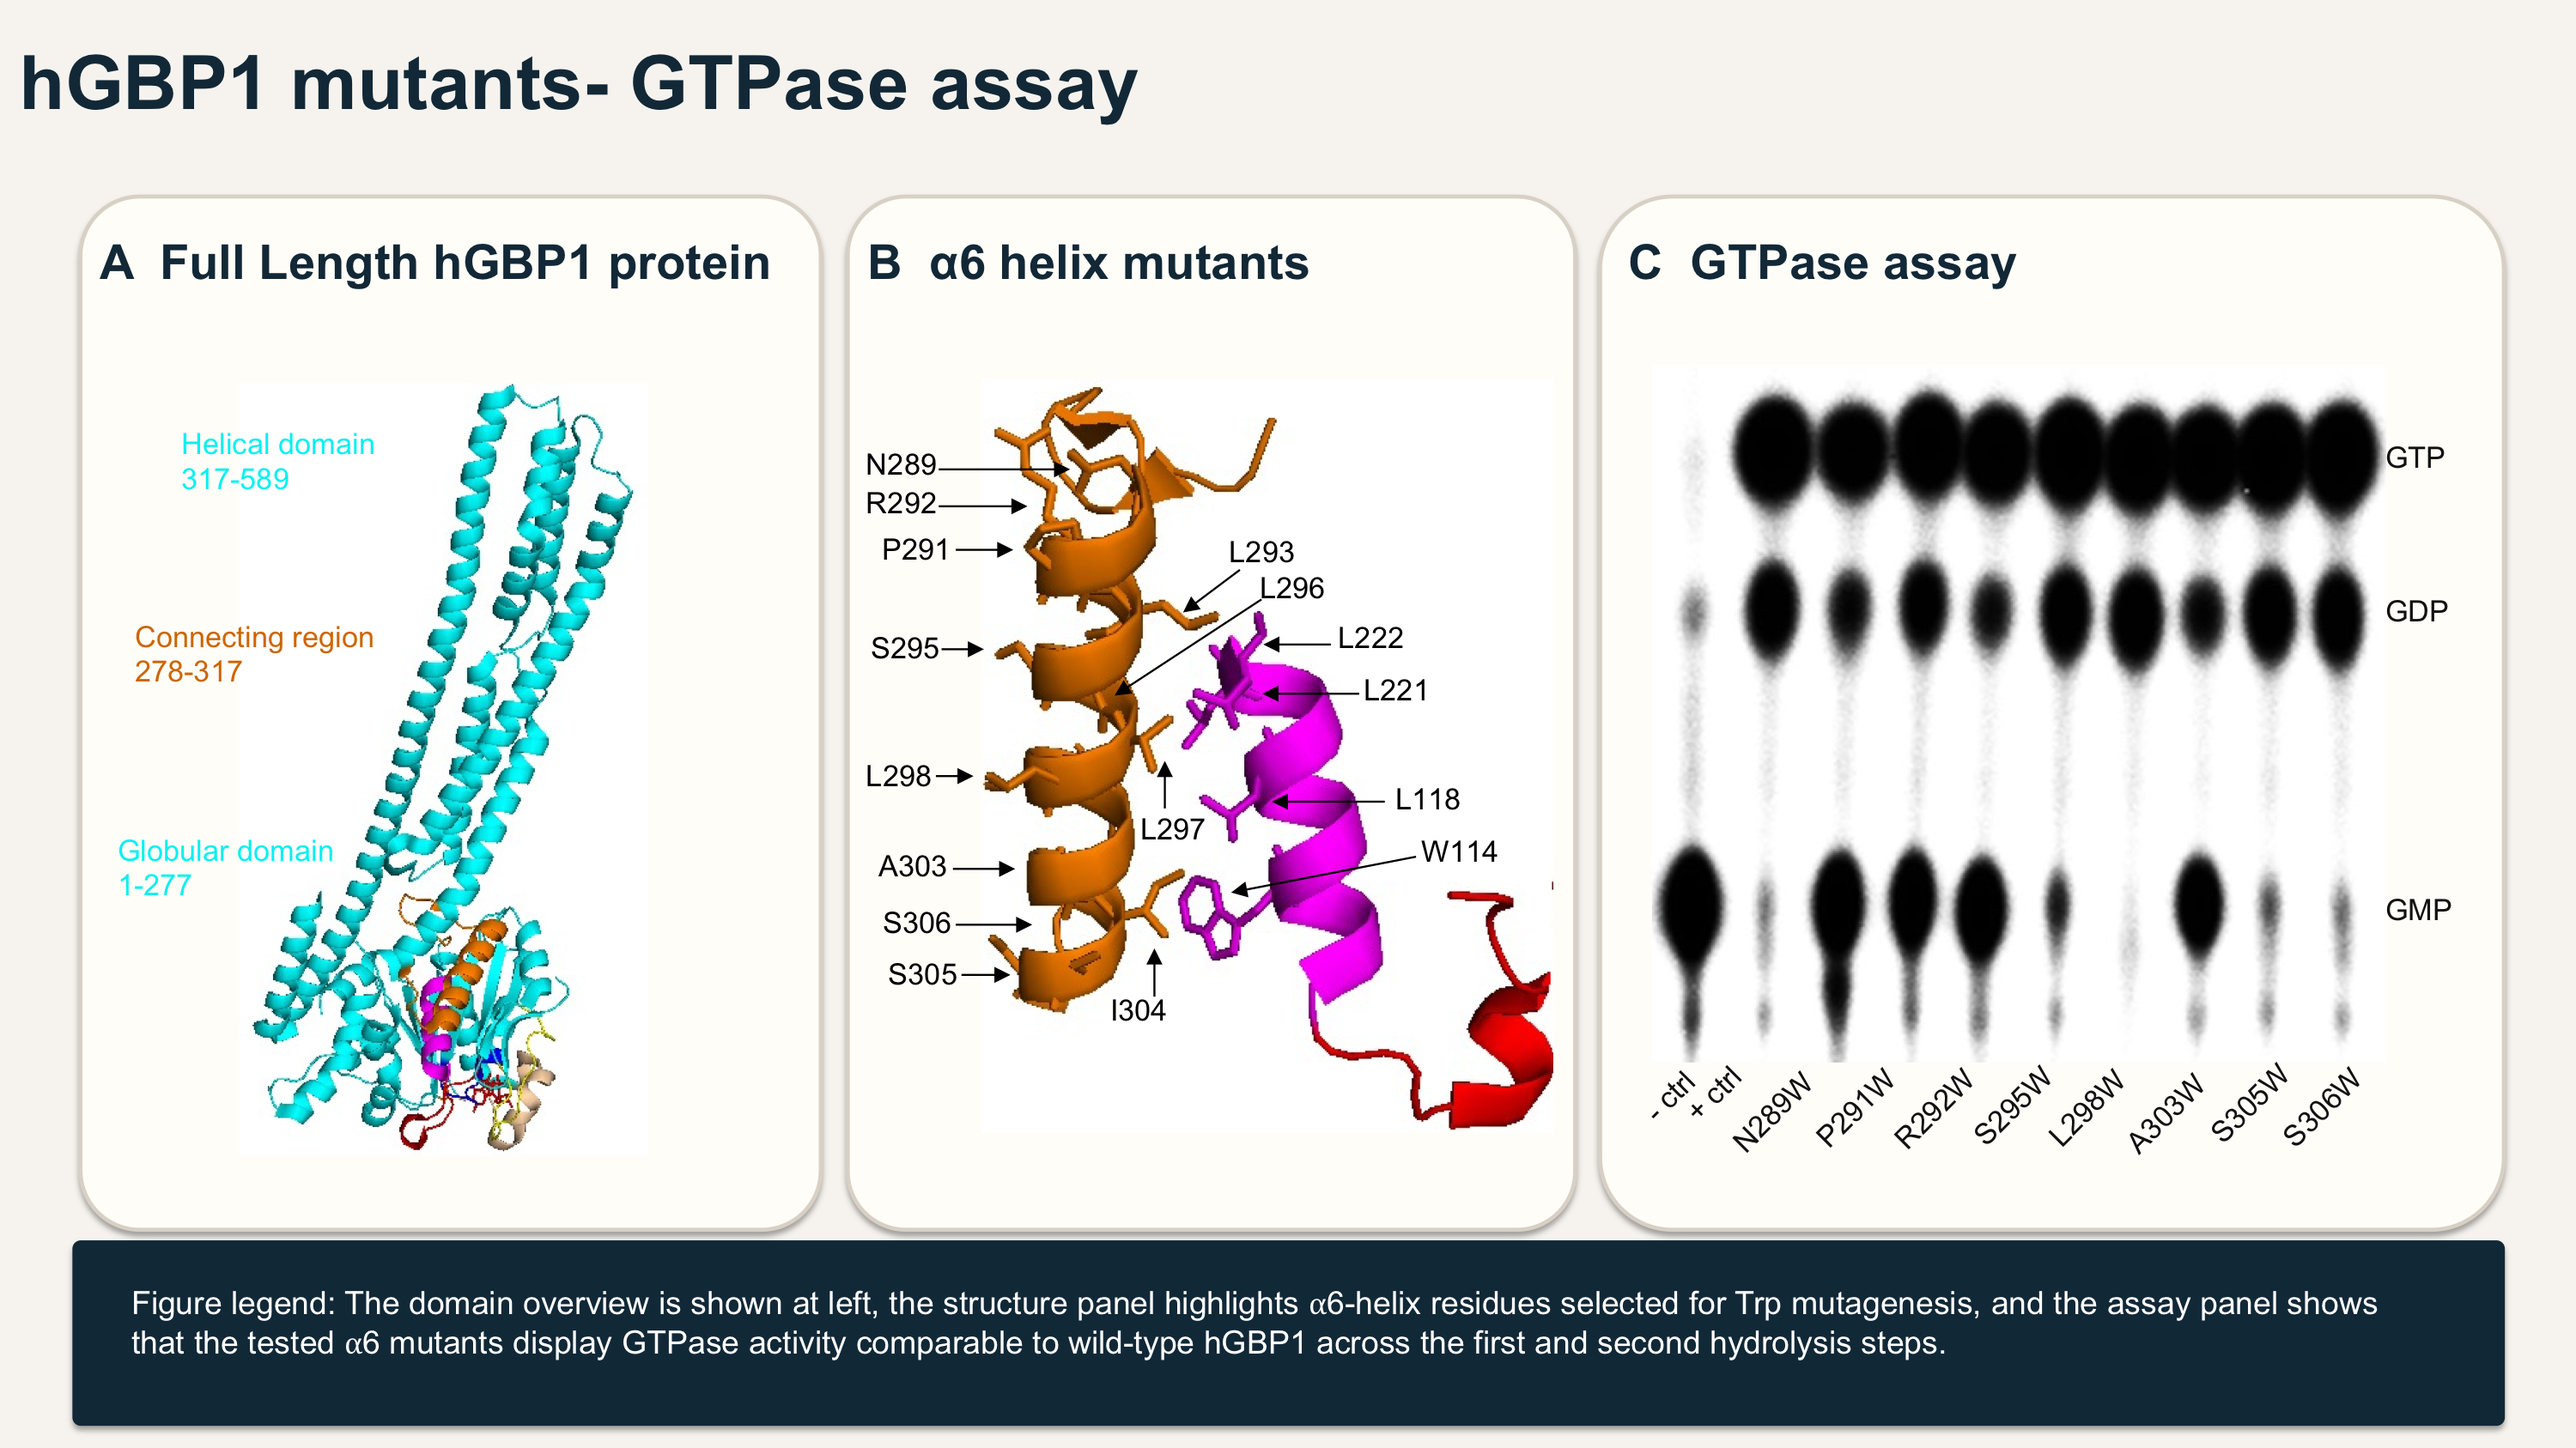
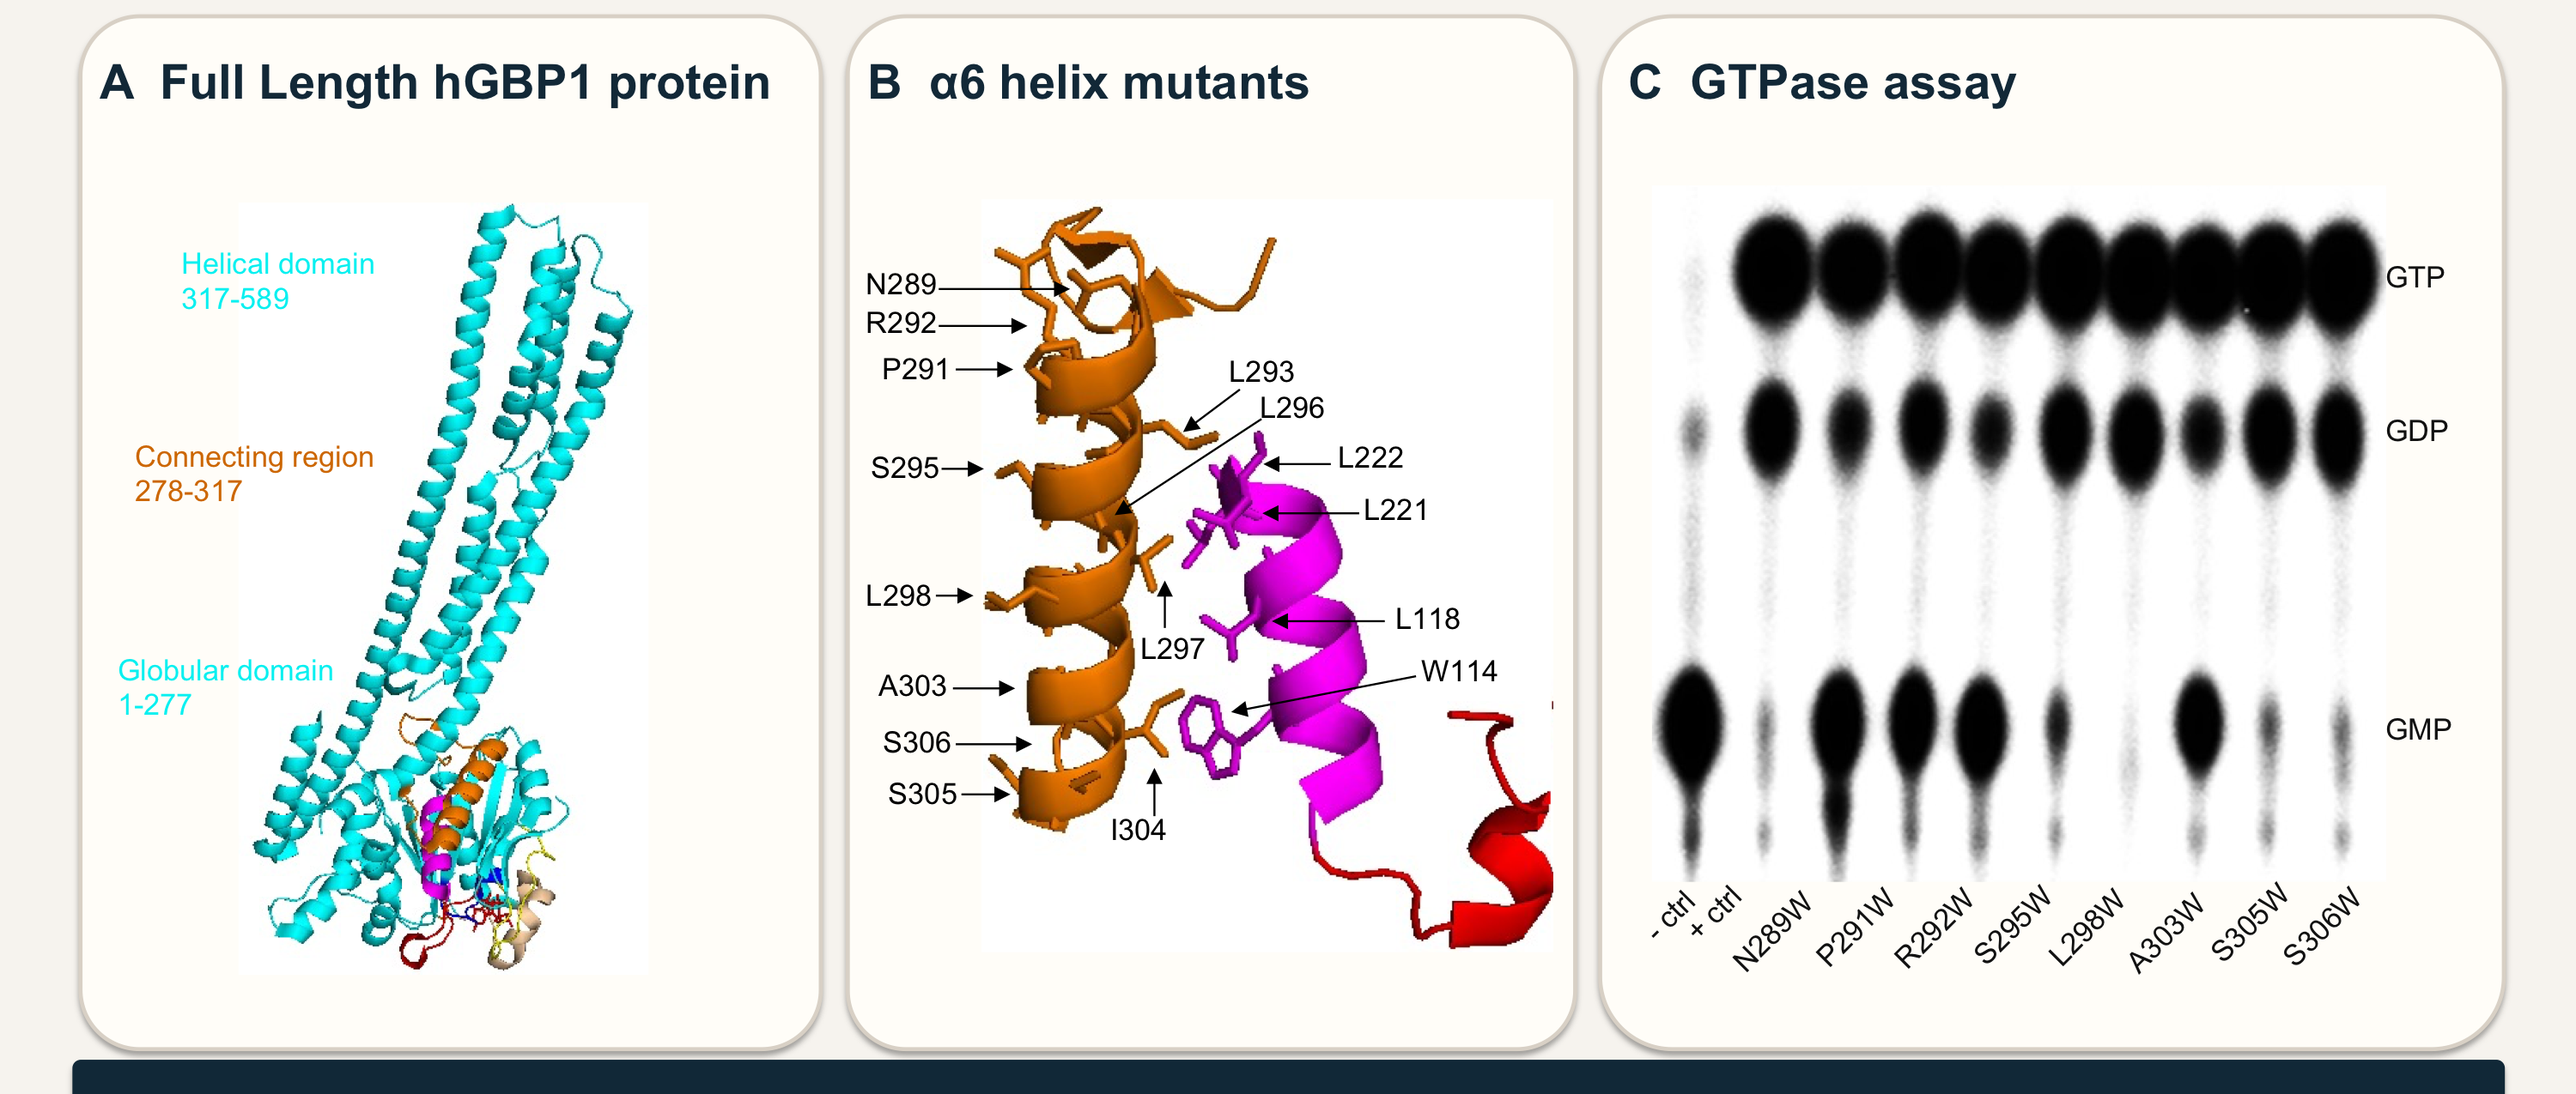
Clean hGBP1 image and restore portfolio caption

diff --git a/index.html b/index.html
@@ -2311,12 +2311,15 @@
                 <div class="media-overlay">
                   <span class="media-kicker">Figure</span>
                   <div class="media-overlay-copy">
+                    <h3>hGBP1 mutants GTPase assay</h3>
                     <span class="media-zoom">Open full view</span>
                   </div>
                 </div>
               </div>
             </button>
             <figcaption class="media-caption">
+              <h3>hGBP1 mutants GTPase assay</h3>
+              <p>Summarizing the full-length hGBP1 protein, the α6 helix mutant set, and the corresponding thin-layer GTPase assay used to compare hydrolysis behavior across the tested variants.</p>
               <div class="media-meta" aria-label="Figure details">
                 <span>Full-length hGBP1</span>
                 <span>α6 helix mutants</span>
